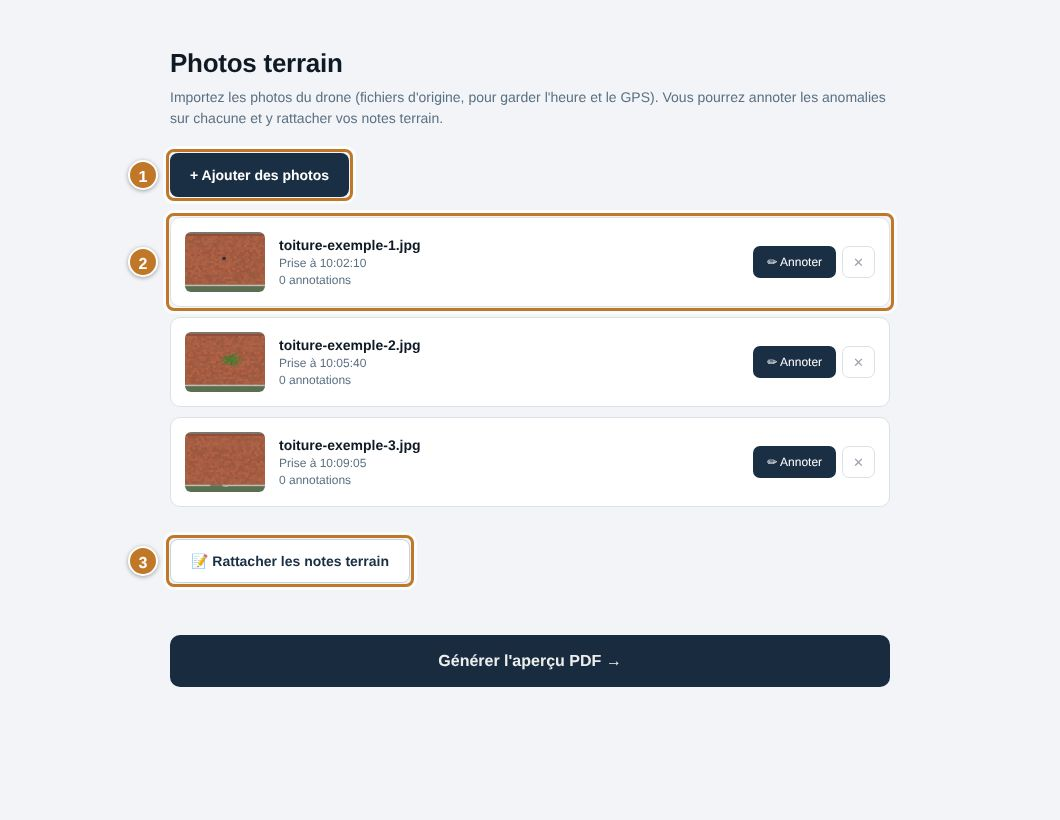
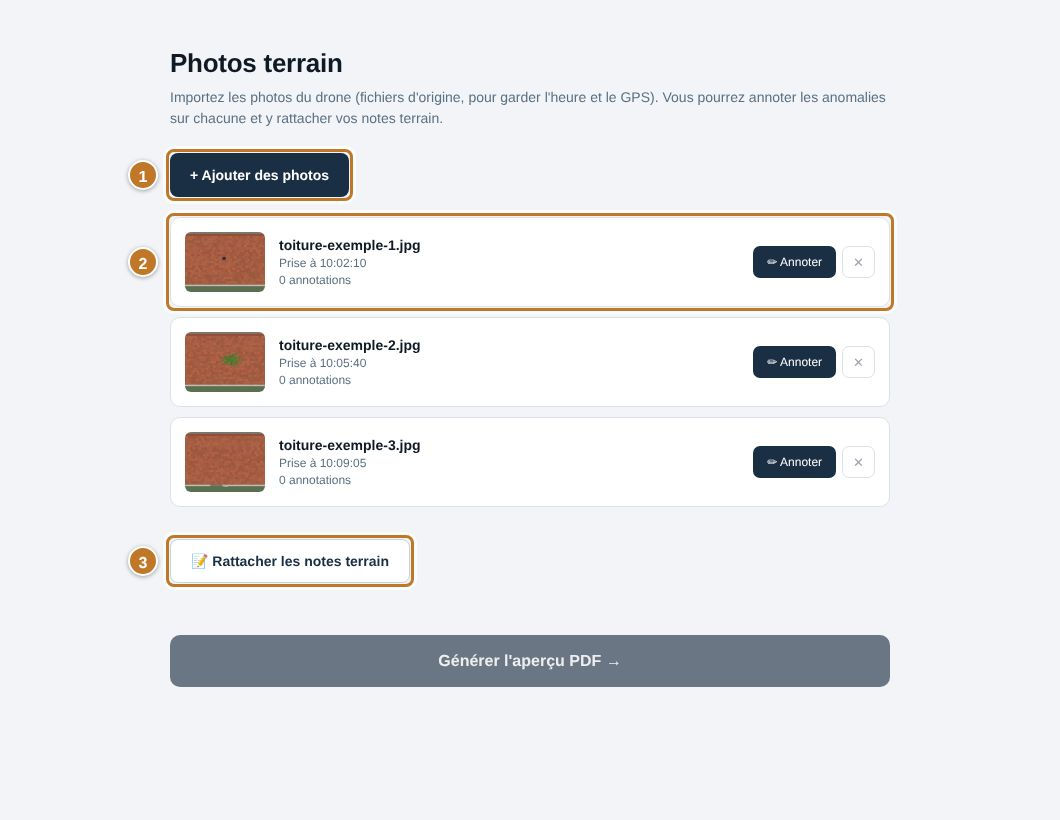
Visite guidée sur téléphone : prise de notes en 8 étapes
- « 🧪 Découvrir en 1 minute » dans Notes terrain et dans le Guide sur
  mobile : créer un carnet d'essai, écrire une note, choisir la gravité,
  l'ajouter ; heure et position, Repère, Exporter.
- visiteGuidee : deux parcours (bureau, terrain), étape « envoi » (validation
  de formulaire) et « clicSur » (zone surlignée entière, avance au clic sur
  un bouton : le voile ne bloque plus la saisie).
- Testée avec de vrais appuis et une vraie frappe (iPhone 13 émulé) ;
  visite ordinateur rejouée sans régression ; captures régénérées.
- Mémoire du projet et CHANGELOG à jour.

Claude-Session: https://claude.ai/code/session_011V4VNhkAppRj6n6sbc18iJ

Changed region(s): [[0.1557, 0.7622, 0.8406, 0.8537]]

diff --git a/src/lib/visiteGuidee.ts b/src/lib/visiteGuidee.ts
@@ -1,8 +1,11 @@
 /**
  * Visite guidée dans l'application (bibliothèque driver.js, licence MIT).
  *
- * Elle accompagne le rapport d'exemple (lib/exemple.ts) du formulaire mission
- * jusqu'au PDF : l'écran s'assombrit, une bulle pointe le vrai bouton.
+ * Deux parcours :
+ * - « bureau » (ordinateur) : accompagne le rapport d'exemple (lib/exemple.ts)
+ *   du formulaire mission jusqu'au PDF ;
+ * - « terrain » (téléphone) : la prise de notes, sur un carnet d'essai.
+ * L'écran s'assombrit, une bulle pointe le vrai bouton.
  * - Étape « suivant » : on lit, puis « Suivant ».
  * - Étape « clic » : on clique soi-même sur le bouton surligné ; la visite
  *   avance et attend que l'écran suivant affiche l'élément visé.
@@ -21,10 +24,16 @@ export interface EtapeVisite {
   element?: string
   titre: string
   texte: string
-  /** « clic » : l'utilisateur clique sur l'élément pour avancer. Défaut : bouton « Suivant ». */
-  action?: 'clic'
+  /**
+   * « clic » : l'utilisateur clique sur l'élément pour avancer ;
+   * « envoi » : il valide le formulaire surligné (taper dans le champ ne fait pas avancer).
+   * Défaut : bouton « Suivant ».
+   */
+  action?: 'clic' | 'envoi'
   /** Côté de la bulle par rapport à l'élément. */
   cote?: 'top' | 'right' | 'bottom' | 'left'
+  /** Étape « clic » : n'avancer qu'au clic sur ce sous-élément de la zone surlignée. */
+  clicSur?: string
 }
 
 /** Sélecteur d'un attribut data-tour. */
@@ -143,12 +152,64 @@ export const ETAPES_VISITE: EtapeVisite[] = [
   },
 ]
 
+/** Visite du mode terrain (téléphone) : prise de notes sur un carnet d'essai. */
+export const ETAPES_VISITE_TERRAIN: EtapeVisite[] = [
+  {
+    route: '/terrain', element: t('terrain-nouveau'), cote: 'bottom', action: 'envoi',
+    titre: 'Un carnet par mission',
+    texte: "Tapez un nom (ex. « Essai »), puis touchez « Nouveau ». En vrai : le nom du bâtiment inspecté.",
+  },
+  {
+    route: '/terrain', element: t('terrain-texte'), cote: 'bottom',
+    titre: 'Ce que vous voyez',
+    texte: "Une note par défaut vu à l'écran du drone. Phrase courte ; le micro du clavier permet de dicter.",
+  },
+  {
+    route: '/terrain', element: t('terrain-gravite'), cote: 'bottom',
+    titre: 'Gravité (facultatif)',
+    texte: 'Si vous la connaissez. Elle reste modifiable au bureau.',
+  },
+  {
+    // Tout le bloc de saisie est surligné (on doit pouvoir écrire et choisir la gravité),
+    // bulle en dessous pour ne pas cacher le champ ; on avance au toucher sur « Ajouter »
+    route: '/terrain', element: t('terrain-saisie'), cote: 'bottom', action: 'clic', clicSur: t('terrain-ajouter'),
+    titre: 'À vous',
+    texte: "Écrivez une note d'essai (ex. « tuile cassée »), puis touchez « + Ajouter la note ».",
+  },
+  {
+    route: '/terrain', element: t('terrain-note'), cote: 'top',
+    titre: 'Heure et position',
+    texte: "Chaque note garde l'heure (et la position si vous l'autorisez). Au bureau, c'est l'heure qui retrouve la photo du drone prise au même moment.",
+  },
+  {
+    route: '/terrain', element: t('terrain-repere'), cote: 'top',
+    titre: 'Pas le temps d\'écrire ?',
+    texte: '« ⏱ Repère » marque juste l\'heure. Vous compléterez au bureau.',
+  },
+  {
+    route: '/terrain', element: t('terrain-exporter'), cote: 'bottom',
+    titre: 'En fin de vol',
+    texte: "« Exporter » envoie le carnet vers l'ordinateur (mail, Teams…). Sur l'ordinateur : « Importer un rapport ou un carnet ».",
+  },
+  {
+    route: '/terrain',
+    titre: "C'est tout !",
+    texte: "Pensez à ouvrir la page avec du réseau avant de partir : elle marche ensuite hors ligne. Ce carnet d'essai se supprime avec 🗑 dans la liste des carnets.",
+  },
+]
+
+/** Parcours disponibles. */
+export type Parcours = 'bureau' | 'terrain'
+const ETAPES: Record<Parcours, EtapeVisite[]> = { bureau: ETAPES_VISITE, terrain: ETAPES_VISITE_TERRAIN }
+
 // ── Pilotage ─────────────────────────────────────────────────────────────────
 
 const CLE_ETAPE = 'dronereport-visite-etape'
 let instance: Driver | null = null
 /** Dernière étape affichée dans la visite en cours (pour savoir si elle est allée au bout). */
 let derniereVue = -1
+/** Parcours de la visite en cours. */
+let parcoursEnCours: Parcours = 'bureau'
 const abonnes = new Set<(active: boolean) => void>()
 
 /** Prévient les composants (bandeau d'exemple) qu'une visite démarre ou s'arrête. */
@@ -196,30 +257,41 @@ export function etapeDeReprise(chemin: string, derniere = lireEtape()): number {
 }
 
 /** Convertit nos étapes en étapes driver.js. */
-function versDriver(): DriveStep[] {
-  return ETAPES_VISITE.map((e, i) => ({
+function versDriver(parcours: Parcours): DriveStep[] {
+  return ETAPES[parcours].map((e, i) => ({
     element: e.element,
-    // Étape « clic » : le clic sur le vrai bouton fait avancer la visite
-    advanceOn: e.action === 'clic' ? 'click' : undefined,
+    // « clic » : le clic sur le vrai bouton fait avancer ; « envoi » : la validation du formulaire
+    advanceOn: e.action === 'envoi'
+      ? 'submit'
+      : e.action === 'clic'
+        ? (e.clicSur
+          ? { event: 'click', when: (_el, _step, o) => !!(o.event.target as Element | null)?.closest(e.clicSur!) }
+          : 'click')
+        : undefined,
     popover: {
       title: e.titre,
       description: e.texte,
       side: e.cote,
       // Pas de retour arrière : l'étape précédente est souvent sur un autre écran
-      showButtons: e.action === 'clic' ? ['close'] : ['next', 'close'],
+      showButtons: e.action ? ['close'] : ['next', 'close'],
     },
-    onHighlighted: () => { derniereVue = i; ecrireEtape(i) },
+    onHighlighted: () => {
+      derniereVue = i
+      // Seule la visite « bureau » se reprend (encart du menu)
+      if (parcours === 'bureau') ecrireEtape(i)
+    },
   }))
 }
 
-/** Lance (ou relance) la visite à l'étape `depuis`. */
-export async function lancerVisite(depuis = 0): Promise<void> {
+/** Lance (ou relance) la visite `parcours` à l'étape `depuis`. */
+export async function lancerVisite(depuis = 0, parcours: Parcours = 'bureau'): Promise<void> {
   // Chargé à la demande : la bibliothèque ne pèse rien tant qu'on ne s'en sert pas
   const [{ driver }] = await Promise.all([import('driver.js'), import('driver.js/dist/driver.css')])
   instance?.destroy()
   derniereVue = -1
+  parcoursEnCours = parcours
   instance = driver({
-    steps: versDriver(),
+    steps: versDriver(parcours),
     showProgress: true,
     progressText: 'Étape {{current}} sur {{total}}',
     nextBtnText: 'Suivant →',
@@ -234,8 +306,8 @@ export async function lancerVisite(depuis = 0): Promise<void> {
     stageRadius: 8,
     onDestroyed: () => {
       // Visite finie : on oublie l'étape ; quittée en route : on la garde pour « Reprendre »
-      const fin = derniereVue === ETAPES_VISITE.length - 1
-      if (fin) ecrireEtape(null)
+      const fin = derniereVue === ETAPES[parcoursEnCours].length - 1
+      if (fin && parcoursEnCours === 'bureau') ecrireEtape(null)
       instance = null
       notifier()
     },

diff --git a/src/pages/NotesTerrain.tsx b/src/pages/NotesTerrain.tsx
@@ -17,6 +17,7 @@ import {
   lirePosition, exportCarnet,
 } from '../lib/notesTerrain'
 import AideEcran from '../components/AideEcran'
+import { lancerVisite } from '../lib/visiteGuidee'
 
 const GRAVITES: SeverityLevel[] = ['faible', 'modere', 'grave', 'critique']
 
@@ -64,7 +65,12 @@ function ListeCarnets({ carnets, onOpen, onCreate, onDelete, onBureau, onGuide }
         puis « Exporter » le carnet en fin de vol pour l'envoyer vers l'ordinateur.
       </AideEcran>
 
-      <form onSubmit={(e) => { e.preventDefault(); onCreate(titre); setTitre('') }} style={s.newRow}>
+      {/* Visite guidée de la prise de notes (driver.js) */}
+      <button onClick={() => void lancerVisite(0, 'terrain')} style={s.visiteBtn}>
+        🧪 Découvrir en 1 minute (visite guidée)
+      </button>
+
+      <form onSubmit={(e) => { e.preventDefault(); onCreate(titre); setTitre('') }} style={s.newRow} data-tour="terrain-nouveau">
         <input
           value={titre}
           onChange={(e) => setTitre(e.target.value)}
@@ -150,52 +156,56 @@ function Carnet({ carnet, onBack }: { carnet: CarnetTerrain; onBack: () => void 
     <main style={s.main}>
       <div style={s.topBar}>
         <button onClick={onBack} style={s.link}>← Carnets</button>
-        <button onClick={() => exportCarnet({ ...carnet, notes })} style={s.btnSecondary} disabled={!notes.length}>
+        <button onClick={() => exportCarnet({ ...carnet, notes })} style={s.btnSecondary} disabled={!notes.length} data-tour="terrain-exporter">
           Exporter
         </button>
       </div>
       <h1 style={s.title}>{carnet.titre}</h1>
 
-      <textarea
-        ref={inputRef}
-        value={texte}
-        onChange={(e) => setTexte(e.target.value)}
-        placeholder="Ex. tuiles déplacées côté nord, près de la cheminée (micro du clavier pour dicter)"
-        rows={3}
-        style={s.textarea}
-      />
+      {/* Bloc de saisie : surligné en entier par la visite guidée (texte, gravité, boutons) */}
+      <div data-tour="terrain-saisie">
+        <textarea
+          ref={inputRef}
+          value={texte}
+          onChange={(e) => setTexte(e.target.value)}
+          placeholder="Ex. tuiles déplacées côté nord, près de la cheminée (micro du clavier pour dicter)"
+          rows={3}
+          style={s.textarea}
+          data-tour="terrain-texte"
+        />
 
-      <div style={s.graviteRow} role="radiogroup" aria-label="Gravité">
-        {GRAVITES.map((g) => (
-          <button
-            key={g}
-            onClick={() => setGravite(gravite === g ? undefined : g)}
-            role="radio"
-            aria-checked={gravite === g}
-            style={{
-              ...s.chip,
-              borderColor: SEVERITY_COLORS[g],
-              background: gravite === g ? SEVERITY_COLORS[g] : '#fff',
-              color: gravite === g ? '#fff' : '#0f1a25',
-            }}
-          >
-            {SEVERITY_LABELS[g]}
+        <div style={s.graviteRow} role="radiogroup" aria-label="Gravité" data-tour="terrain-gravite">
+          {GRAVITES.map((g) => (
+            <button
+              key={g}
+              onClick={() => setGravite(gravite === g ? undefined : g)}
+              role="radio"
+              aria-checked={gravite === g}
+              style={{
+                ...s.chip,
+                borderColor: SEVERITY_COLORS[g],
+                background: gravite === g ? SEVERITY_COLORS[g] : '#fff',
+                color: gravite === g ? '#fff' : '#0f1a25',
+              }}
+            >
+              {SEVERITY_LABELS[g]}
+            </button>
+          ))}
+        </div>
+
+        <div style={s.actionRow}>
+          <button onClick={ajouter} disabled={enCours || (!texte.trim() && !gravite)} style={{ ...s.btnPrimary, flex: 2 }} data-tour="terrain-ajouter">
+            + Ajouter la note
           </button>
-        ))}
-      </div>
-
-      <div style={s.actionRow}>
-        <button onClick={ajouter} disabled={enCours || (!texte.trim() && !gravite)} style={{ ...s.btnPrimary, flex: 2 }}>
-          + Ajouter la note
-        </button>
-        <button onClick={repere} style={{ ...s.btnSecondary, flex: 1 }} title="Marque l'heure sans texte">
-          ⏱ Repère
-        </button>
+          <button onClick={repere} style={{ ...s.btnSecondary, flex: 1 }} title="Marque l'heure sans texte" data-tour="terrain-repere">
+            ⏱ Repère
+          </button>
+        </div>
       </div>
 
       <div style={s.list}>
         {notes.map((n) => (
-          <div key={n.id} style={s.noteCard}>
+          <div key={n.id} style={s.noteCard} data-tour="terrain-note">
             <div style={s.noteHead}>
               <span style={s.noteTime}>{new Date(n.prisLe).toLocaleTimeString('fr-FR')}</span>
               {n.gravite && <span style={{ ...s.badge, background: SEVERITY_COLORS[n.gravite] }}>{SEVERITY_LABELS[n.gravite]}</span>}
@@ -229,6 +239,11 @@ const s: Record<string, React.CSSProperties> = {
   actionRow: { display: 'flex', gap: 8, marginBottom: 20 },
   btnPrimary: { background: '#0f1a25', color: '#fff', border: 'none', borderRadius: 8, padding: '12px 16px', fontSize: 16, fontWeight: 600, minHeight: 52, cursor: 'pointer', fontFamily: 'inherit' },
   btnSecondary: { background: '#fff', color: '#0f1a25', border: '1.5px solid #c9d3dc', borderRadius: 8, padding: '10px 14px', fontSize: 15, fontWeight: 600, minHeight: 48, cursor: 'pointer', fontFamily: 'inherit' },
+  visiteBtn: {
+    display: 'block', width: '100%', margin: '0 0 16px', padding: '12px 14px', borderRadius: 10,
+    background: '#fef3e2', border: '1.5px solid #f3d9b1', color: '#1a2e44', fontSize: 15, fontWeight: 600,
+    textAlign: 'left', cursor: 'pointer', fontFamily: 'inherit',
+  },
   link: { background: 'none', border: 'none', color: '#c07828', fontSize: 15, fontWeight: 600, padding: '10px 0', cursor: 'pointer', fontFamily: 'inherit' },
   list: { display: 'flex', flexDirection: 'column', gap: 8 },
   card: { display: 'flex', alignItems: 'center', border: '1.5px solid #e4ecf2', borderRadius: 10, background: '#fff' },

diff --git a/src/__tests__/exempleVisite.test.ts b/src/__tests__/exempleVisite.test.ts
@@ -7,7 +7,7 @@ import { join } from 'node:path'
 import { creerExemple, supprimerExemple, carnetExemple, ID_CARNET_EXEMPLE, PHOTOS_EXEMPLE } from '../lib/exemple'
 import { findExistingDrafts } from '../lib/reportDraft'
 import { getCarnet } from '../lib/notesTerrain'
-import { ETAPES_VISITE, etapeDeReprise } from '../lib/visiteGuidee'
+import { ETAPES_VISITE, ETAPES_VISITE_TERRAIN, etapeDeReprise } from '../lib/visiteGuidee'
 
 beforeEach(() => {
   localStorage.clear()
@@ -64,7 +64,7 @@ describe('visite guidée', () => {
     const sources = ['src/pages', 'src/components']
       .flatMap((dir) => readdirSync(dir).filter((f) => f.endsWith('.tsx')).map((f) => readFileSync(join(dir, f), 'utf8')))
       .join('\n')
-    for (const e of ETAPES_VISITE) {
+    for (const e of [...ETAPES_VISITE, ...ETAPES_VISITE_TERRAIN]) {
       if (!e.element) continue
       const tour = e.element.match(/data-tour="([^"]+)"/)
       const guide = e.element.match(/data-guide="([^"]+)"/)
@@ -77,8 +77,10 @@ describe('visite guidée', () => {
   })
 
   it('se termine par une bulle sans élément, et chaque étape « clic » vise un élément', () => {
-    expect(ETAPES_VISITE.at(-1)?.element).toBeUndefined()
-    for (const e of ETAPES_VISITE) if (e.action === 'clic') expect(e.element).toBeTruthy()
+    for (const etapes of [ETAPES_VISITE, ETAPES_VISITE_TERRAIN]) {
+      expect(etapes.at(-1)?.element).toBeUndefined()
+      for (const e of etapes) if (e.action) expect(e.element).toBeTruthy()
+    }
   })
 
   it('reprend à la dernière étape vue si elle est sur l\'écran, sinon au début de l\'écran', () => {

diff --git a/src/pages/Guide.tsx b/src/pages/Guide.tsx
@@ -12,6 +12,7 @@ import { ETAPES_GUIDE, REGLES_GUIDE, capturesEtape, urlCapture, type CaptureGuid
 import { reafficherAides } from '../lib/aidesVues'
 import { useIsMobile } from '../hooks/useIsMobile'
 import { useExemple } from '../hooks/useExemple'
+import { lancerVisite } from '../lib/visiteGuidee'
 
 export default function Guide() {
   const navigate = useNavigate()
@@ -35,6 +36,17 @@ export default function Guide() {
         Un rapport d'inspection en 5 étapes : les notes se prennent au téléphone pendant le vol,
         le rapport se fait ensuite sur ordinateur.
       </p>
+      {/* Sur téléphone : visite guidée de la prise de notes */}
+      {isMobile && (
+        <div style={s.essai}>
+          <div>
+            <strong>Le plus simple : essayer.</strong> Une visite guidée vous fait prendre une note d'essai, en 1 minute.
+          </div>
+          <button onClick={() => { navigate('/terrain'); void lancerVisite(0, 'terrain') }} style={s.essaiBtn}>
+            🧪 Visite guidée
+          </button>
+        </div>
+      )}
       {/* Sur ordinateur : la pratique avant la lecture */}
       {!isMobile && (
         <div style={s.essai}>

diff --git a/decisions.md b/decisions.md
@@ -16,3 +16,4 @@
 2026-11-26 | Visite guidée dans l'appli avec driver.js (MIT, sans dépendance, version 1.11.0 de plus de 2 semaines), chargée à la demande | Robuste (attente des éléments entre écrans, avance au clic) pour un coût minime ; rien à charger tant qu'on ne lance pas la visite
 2026-11-26 | Rapport d'exemple fictif (« Essayer avec un exemple ») : adresse limitée à la commune, photos dessinées servies par le site | Apprendre en faisant, sans drone ; aucune donnée réelle dans le dépôt public
 2026-11-26 | Visite guidée limitée à l'ordinateur ; la prise de notes au téléphone reste expliquée par le Guide | Les écrans rapport sont réservés au PC ; le carnet de l'exemple remplace la phase téléphone
+2026-11-26 | Visite guidée téléphone sur un carnet d'essai créé par l'utilisateur (pas de carnet d'exemple pré-rempli) | Sur le terrain, le geste à apprendre est la saisie elle-même ; le carnet d'essai se supprime avec 🗑

diff --git a/AGENTS.md b/AGENTS.md
@@ -45,4 +45,8 @@ Publication : push sur `main` → GitHub Actions → https://sit-pmo.github.io/d
 - « 🧪 Essayer avec un exemple » (accueil, guide) : rapport + carnet fictifs (`src/lib/exemple.ts`,
   photos dans `public/exemple/`) et visite guidée en 22 étapes jusqu'au PDF (`src/lib/visiteGuidee.ts`,
   driver.js 1.11.0). Les étapes visent des attributs `data-tour` : ne pas les retirer d'une page
-  (un test vérifie qu'ils existent). Ordinateur seulement. 50 tests unitaires.
+  (un test vérifie qu'ils existent).
+- Visite guidée téléphone (mode terrain) : « 🧪 Découvrir en 1 minute » dans Notes terrain et dans le
+  Guide sur mobile, 8 étapes sur un carnet d'essai (`ETAPES_VISITE_TERRAIN`). Une étape « clic » peut
+  surligner une zone entière et n'avancer qu'au clic sur un bouton (`clicSur`) : sinon le voile
+  empêche d'utiliser les champs voisins. 50 tests unitaires.

diff --git a/CHANGELOG.md b/CHANGELOG.md
@@ -6,6 +6,8 @@
 - « 🧪 Essayer avec un exemple » : rapport et carnet fictifs (toitures dessinées) et visite guidée
   dans l'appli (driver.js) qui fait faire tout le parcours, des notes au PDF. Reprise et suppression
   de l'exemple depuis le menu de gauche ; badge « Exemple » dans la liste des rapports.
+- Visite guidée sur téléphone : « 🧪 Découvrir en 1 minute » (Notes terrain, Guide) fait créer
+  un carnet d'essai, prendre une note et montre l'export.
 - Tutoriel pour une première utilisation :
   - carte « Première fois ? » sur l'accueil (parcours en 5 étapes, masquable) ;
   - page « Guide » (menu de gauche, et lien depuis Notes terrain sur téléphone) ;

diff --git a/contraintes.md b/contraintes.md
@@ -12,4 +12,5 @@
 - [ ] Plan de situation IGN depuis GitHub Pages (tuiles et géocodage)
 - [ ] Rapport créé depuis un carnet : adresse BAN trouvée en ligne et pertinente (GPS téléphone souvent à ~100 m)
 - [ ] Visite guidée de l'exemple sur un vrai poste Windows (Chrome / Edge), avec plan IGN réel
+- [ ] Visite guidée terrain sur un vrai téléphone (Android et iOS) : clavier ouvert, bulle lisible
 - [ ] Exemple sur un poste hors fuseau de Paris : notes décalées de l'heure (attendu, réglable par le décalage)
